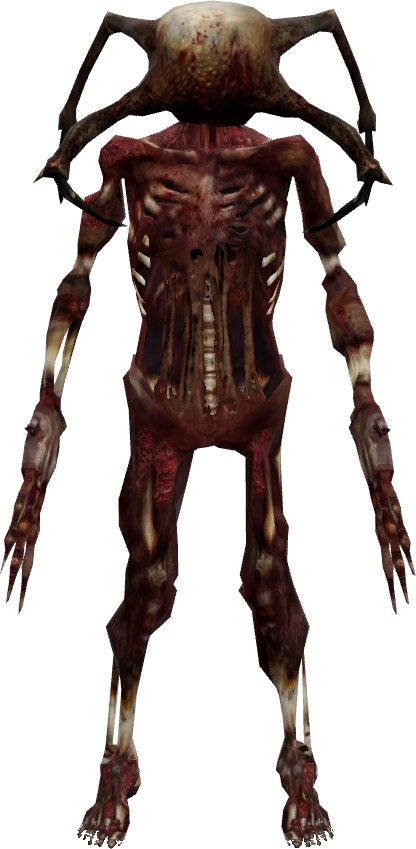
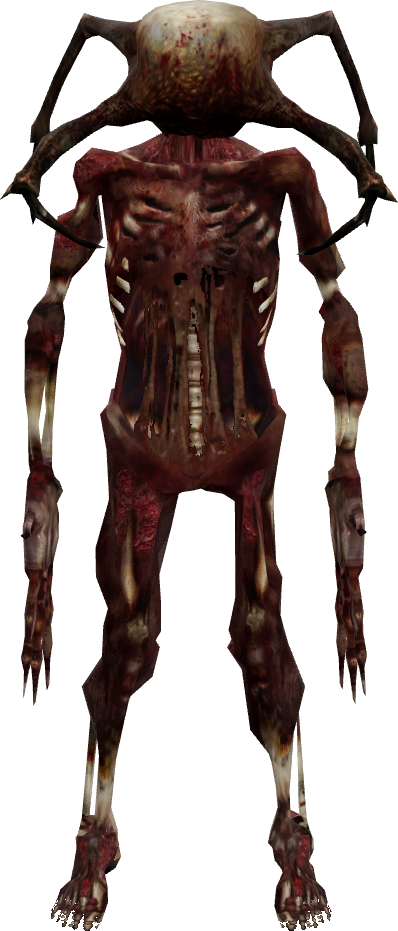
feat(images): zombi rápido, Atlas y P-body con los brazos abajo
- Tres renders rehechos; los otros revisados no cambian.

diff --git a/src/data/source-captures.ts b/src/data/source-captures.ts
@@ -169,8 +169,8 @@ const captures: SourceCapture[] = [
     gameId: "half-life-2",
     folder: "hl2",
     model: "zombie/fast",
-    width: 416,
-    height: 849,
+    width: 398,
+    height: 931,
   },
   {
     entryId: "hl2-classic-zombie",
@@ -716,16 +716,16 @@ const captures: SourceCapture[] = [
     gameId: "portal-2",
     folder: "portal2",
     model: "player/ballbot/ballbot",
-    width: 824,
-    height: 620,
+    width: 642,
+    height: 786,
   },
   {
     entryId: "portal-character-p-body",
     gameId: "portal-2",
     folder: "portal2",
     model: "player/eggbot/eggbot",
-    width: 600,
-    height: 787,
+    width: 434,
+    height: 877,
   },
   {
     entryId: "portal-enemy-frankenturret",
